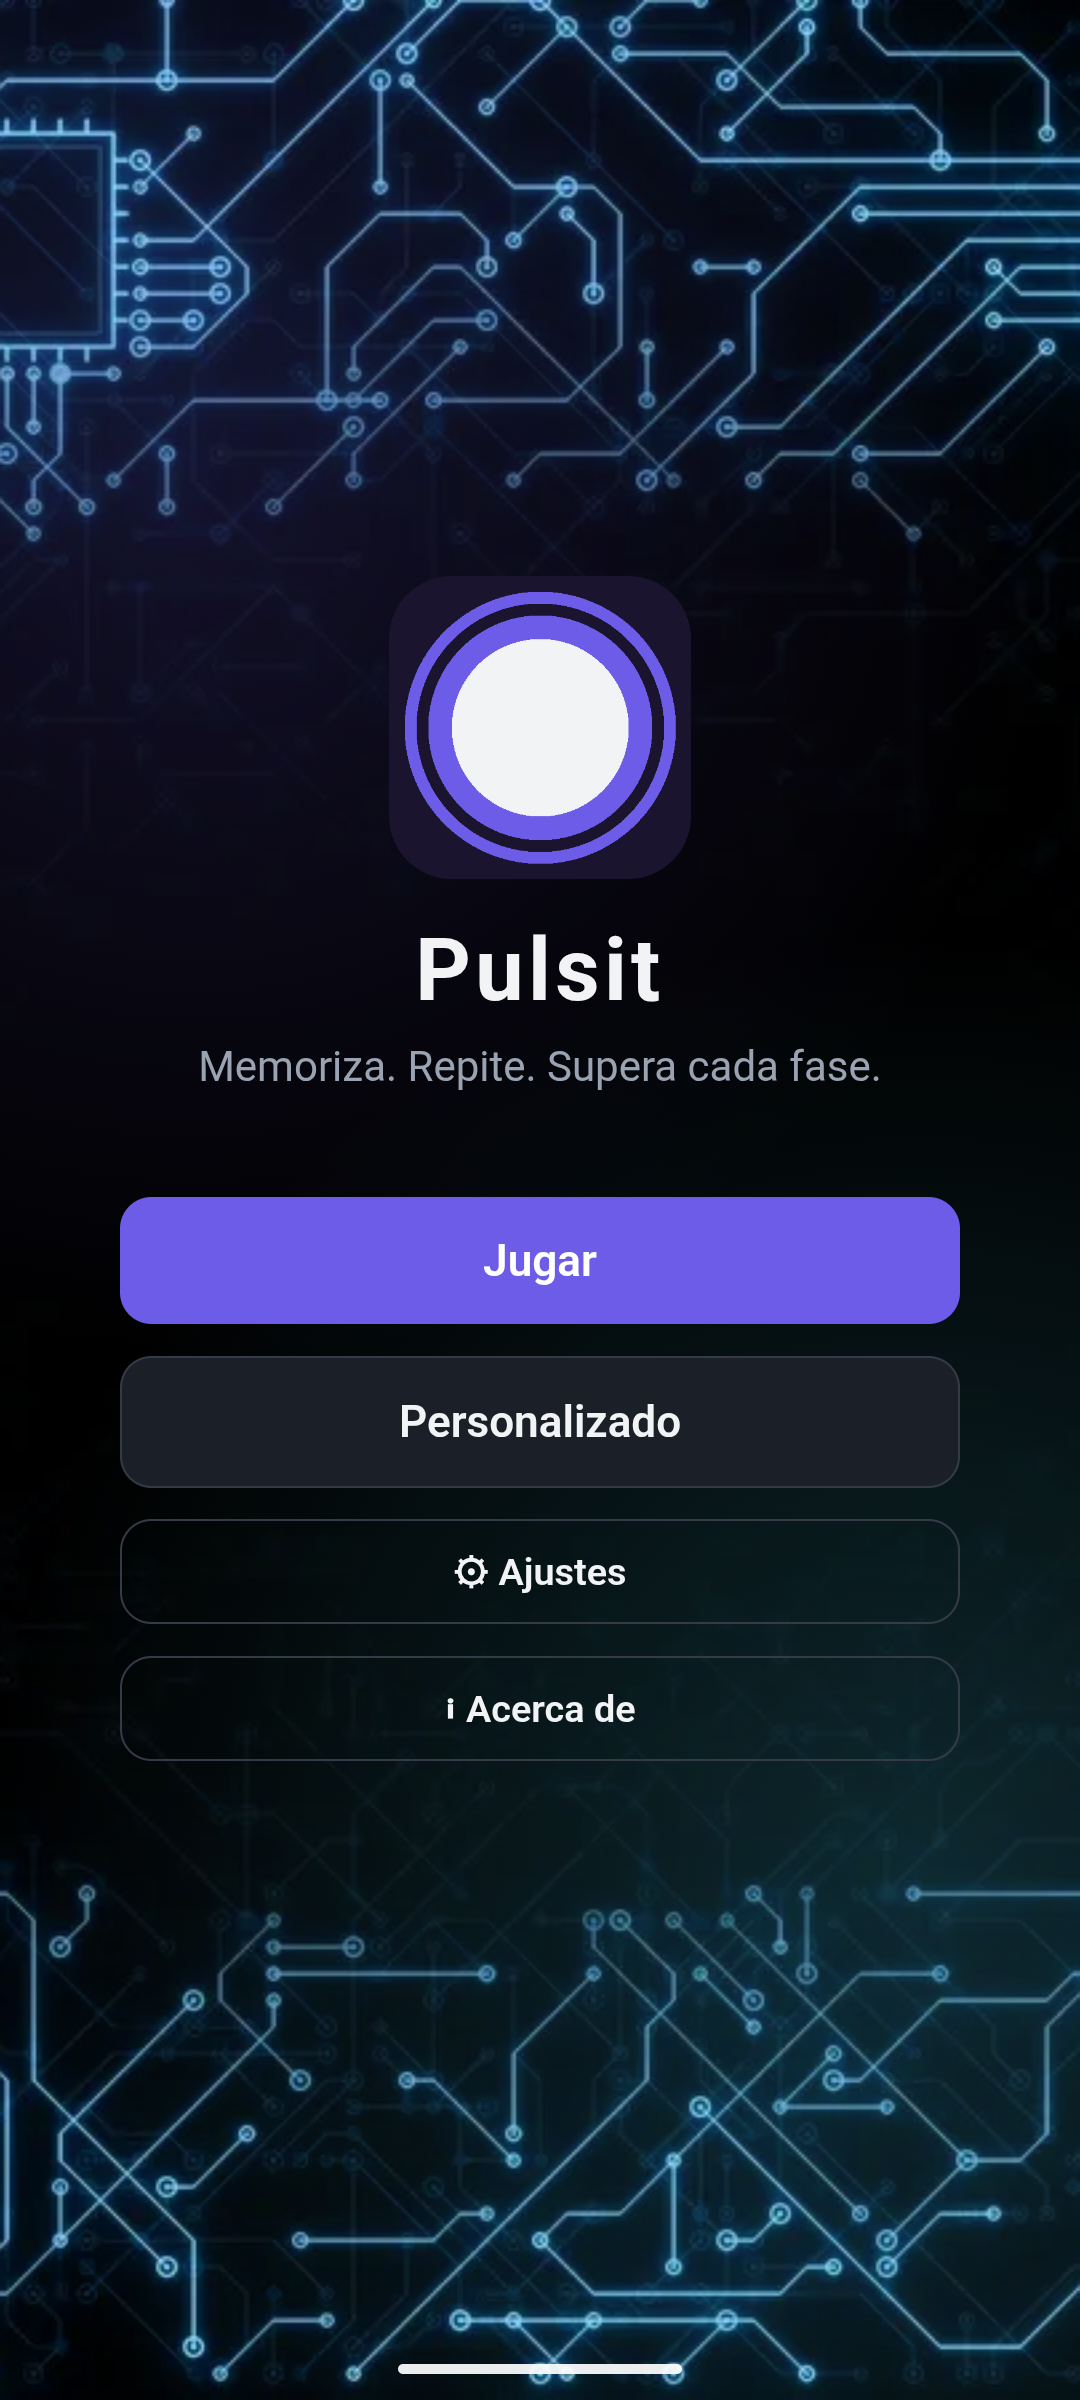
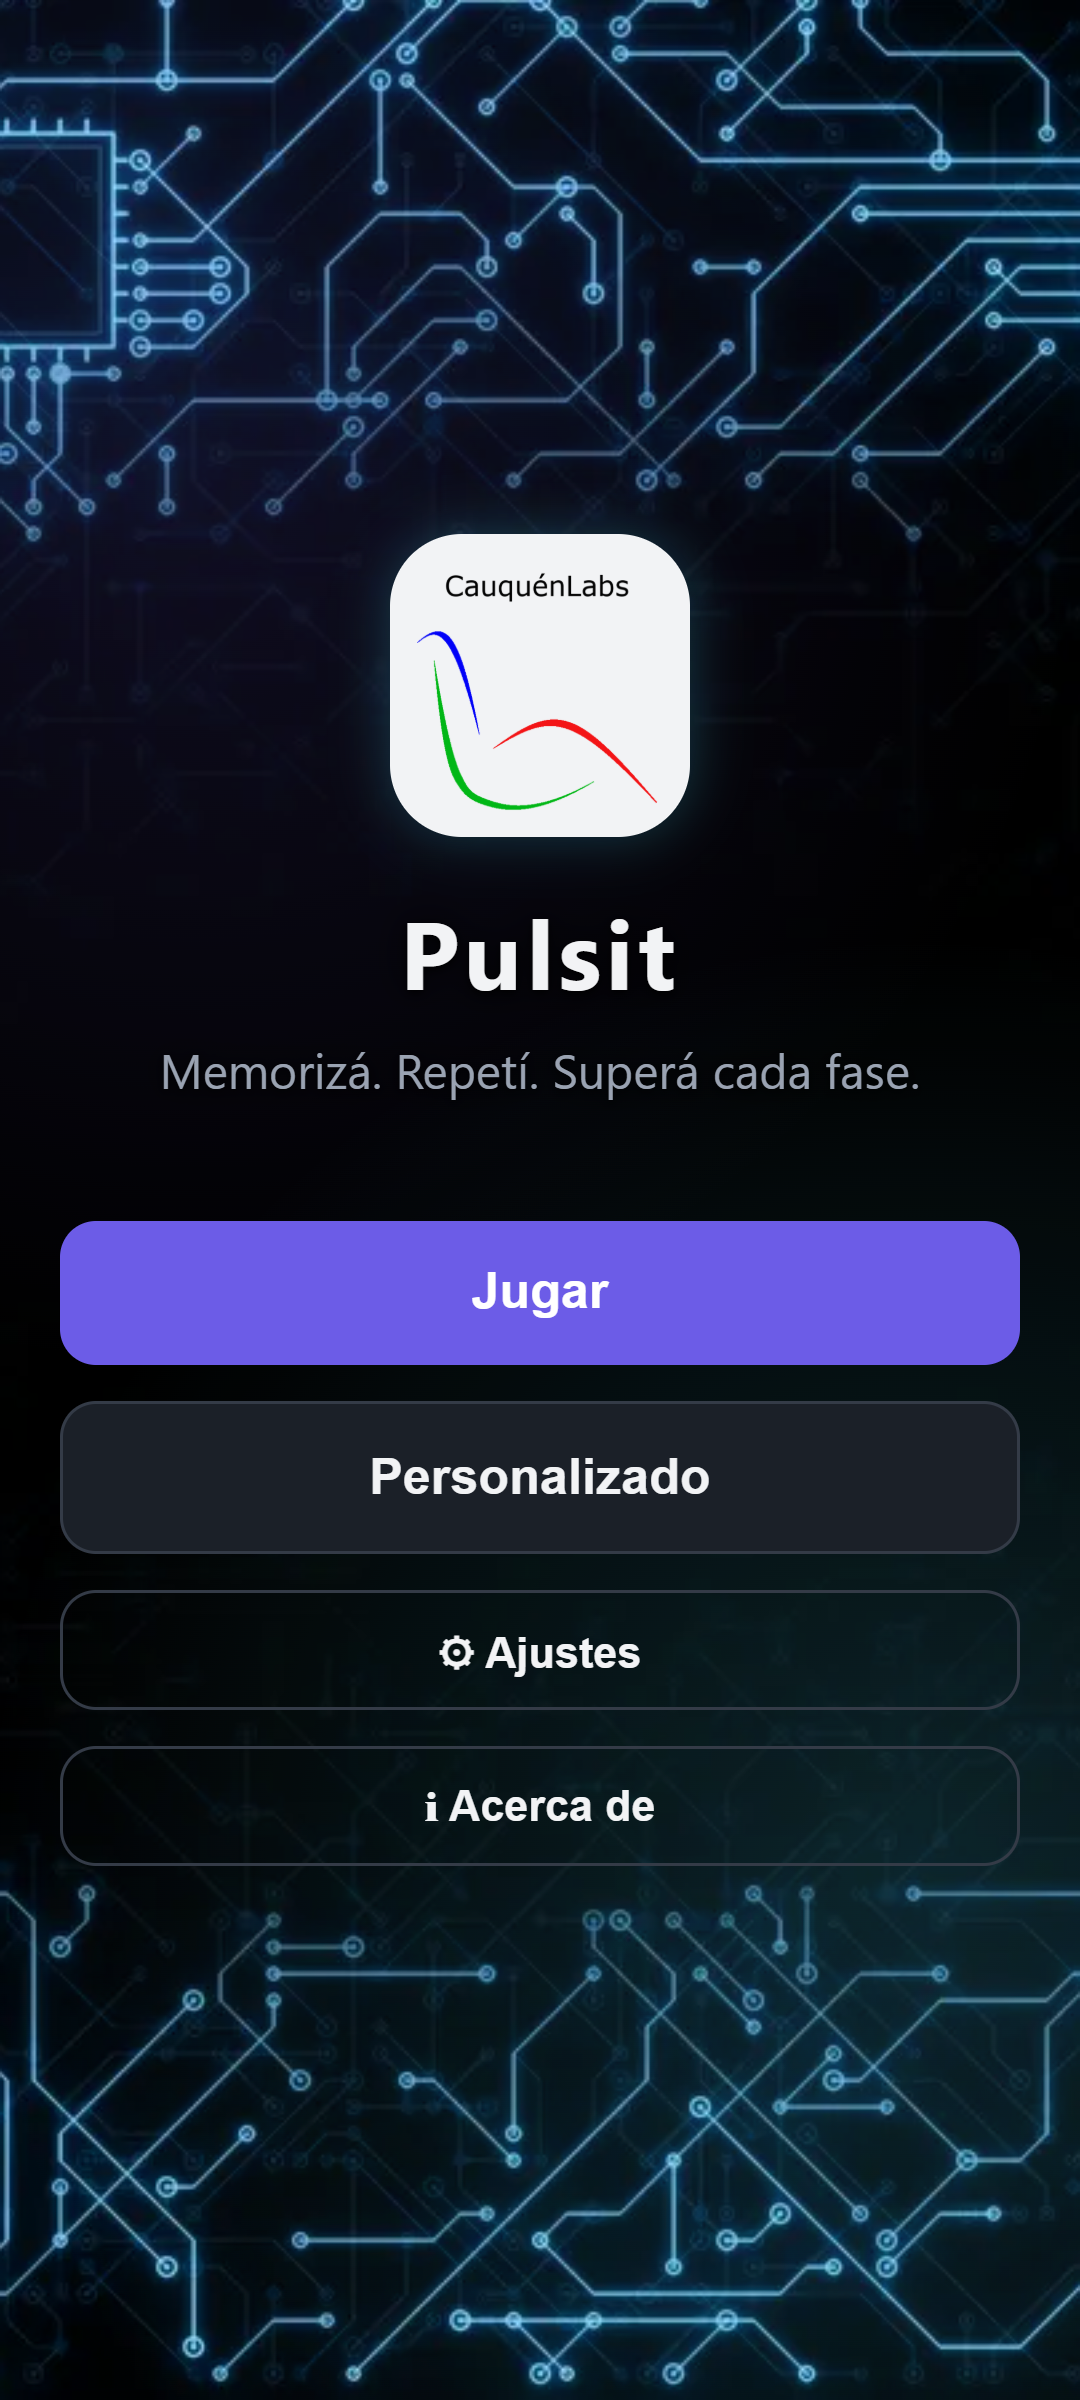
Prepara la versión 0.2.0: capturas nuevas de la tienda y formularios legibles
- Sube la versión a 0.2.0 (versionCode 2).
- Rehace las capturas de la ficha de Play Store con la versión actual y
  agrega el script que las genera (store-listing/capture-screenshots.cjs).
- Los formularios de Ajustes y Modo personalizado usan el mismo panel
  translúcido que la barra de estado, para leerse sobre el fondo.

Changed region(s): [[0.0306, 0.5, 0.9472, 0.7812], [0.1528, 0.2188, 0.8556, 0.4688], [0.3667, 0.9688, 0.6111, 1.0]]

diff --git a/www/css/styles.css b/www/css/styles.css
@@ -271,6 +271,13 @@ html, body {
 
 /* ---------- Modo personalizado ---------- */
 
+.screen-title,
+.title,
+.subtitle,
+.about-description {
+  text-shadow: 0 1px 3px rgba(0, 0, 0, 0.9), 0 0 12px rgba(0, 0, 0, 0.8);
+}
+
 .screen-title {
   margin-top: 0;
 }
@@ -281,6 +288,14 @@ html, body {
   gap: 1.1rem;
   width: 100%;
   max-width: 420px;
+  /* Mismo panel translúcido que la barra de estado del juego (ver .status-bar): las etiquetas
+     del formulario se perdían sobre las pistas del fondo de circuito. */
+  padding: 1rem;
+  border-radius: 16px;
+  border: 1px solid rgba(72, 219, 251, 0.18);
+  background: rgba(5, 8, 16, 0.82);
+  -webkit-backdrop-filter: blur(6px);
+  backdrop-filter: blur(6px);
 }
 
 .field {
@@ -288,7 +303,7 @@ html, body {
   flex-direction: column;
   gap: 0.35rem;
   font-size: 0.95rem;
-  color: var(--color-muted);
+  color: #c9d1dc;
 }
 
 .field input[type='number'],

diff --git a/.project-corpus/state/STATUS.md b/.project-corpus/state/STATUS.md
@@ -1,7 +1,7 @@
 # STATUS — estado verificado de Pulsit
 
-Última actualización: 2026-10-22 (sesión 4: campaña de 28 fases, barra de estado legible, logo
-definitivo de CauquenLabs, material de la ficha de Play Store en `store-listing/`)
+Última actualización: 2026-10-22 (sesión 4: 28 fases, legibilidad, logo definitivo, voseo, capturas
+nuevas y build 0.2.0 / versionCode 2 firmado, listo para subir a Play Console)
 
 ## ✅ Continuidad: qué pasa si se reinicia el equipo
 
@@ -12,8 +12,7 @@ Todo el trabajo está commiteado (`git log --oneline -3`). Nada depende de un pr
   Sin ambos no se puede volver a firmar un `.aab` compatible — el usuario debe tener un backup.
 - Archivos sin commitear a propósito en la raíz: `pcb_wallpaper_4k.png` (original del fondo, ya
   procesado a `www/assets/background-circuit.webp`), `Pulsit-debug.apk` y `Pulsit-release.aab`
-  (gitignorados, regenerables). **Ambos builds son ANTERIORES a esta sesión**: no incluyen las 28
-  fases, el logo definitivo ni la barra de estado legible; hay que regenerarlos.
+  (gitignorados, regenerables). Ambos builds son la versión **0.2.0 (versionCode 2)**, con todos los cambios de la sesión 4.
 - `sharp` y `puppeteer-core` no son dependencias del proyecto: `sharp` se instala con
   `npm install --no-save sharp` solo para regenerar el ícono o el feature graphic.
 
@@ -134,16 +133,20 @@ size` antes de tapear, no asumir que la imagen mostrada está 1:1.
    rechazaría) y con el lema "Memorizá. Repetí. Superá cada fase.".
 5. Textos de la app unificados en **voseo** a pedido del usuario (inicio: "Memorizá. Repetí. Superá
 cada fase."; juego: "Observá la secuencia..."). Convención agregada a `AGENTS.md`.
-6. `npm test` → 98/98; `npx cap sync` OK.
+6. Paneles translúcidos también en los formularios de Ajustes y Modo personalizado.
+7. Capturas de la tienda rehechas (1080×2400, Chrome headless, script
+   `store-listing/capture-screenshots.cjs`).
+8. Versión subida a **0.2.0 / versionCode 2**; `Pulsit-debug.apk` y `Pulsit-release.aab`
+   regenerados, `.aab` verificado con `jarsigner` y `aapt2 dump badging`. Tag `v0.2.0`.
+9. `npm test` → 98/98; `npx cap sync` OK.
 
 ## Siguiente acción exacta
 
-1. **Rehacer las capturas** de `store-listing/screenshots/`: son de antes de esta sesión (muestran
-   "Fase 1 / 10", el logo viejo y la barra sin panel).
-2. Regenerar `Pulsit-debug.apk` y `Pulsit-release.aab` (`./gradlew assembleDebug bundleRelease`,
-   ver "Detalle técnico") y probar el APK en el teléfono físico del usuario.
-3. Recordarle al usuario que respalde el keystore y la contraseña fuera de esta máquina.
-4. Crear la app en Play Console, subir el `.aab` nuevo como prueba interna, aceptar Play App
-   Signing, cargar la ficha (feature graphic + capturas + URL de la política de privacidad en
-   GitHub Pages, `docs/privacy-policy.html`).
-5. Etiquetar `v0.2.0` tras la primera subida a Play Console.
+1. **Lo hace el usuario (el agente no tiene acceso a Play Console)**: crear la app en Play Console,
+   subir `Pulsit-release.aab` a prueba interna, aceptar Play App Signing y cargar la ficha
+   (`store-listing/feature-graphic.png`, `store-listing/screenshots/`, URL de la política de
+   privacidad en GitHub Pages).
+2. Hacer push de `master` y del tag `v0.2.0` a `origin` si el usuario lo confirma.
+3. Probar `Pulsit-debug.apk` en el teléfono físico del usuario.
+4. Recordarle al usuario que respalde el keystore y la contraseña fuera de esta máquina.
+5. Para la próxima subida: incrementar `versionCode` en `android/app/build.gradle`.

diff --git a/PROJECT.md b/PROJECT.md
@@ -114,10 +114,8 @@
 
 - **Subir el primer `.aab` a Play Console**: el `.aab` firmado ya se genera correctamente (ver
   "Funciona" y README.md, "Publicar en Google Play Store"); falta crear la app en Play Console,
-  subir `Pulsit-release.aab` como build interno de prueba y aceptar Play App Signing.
-- **Capturas de la ficha de Play Store desactualizadas**: `store-listing/screenshots/` se tomaron
-  antes de la campaña de 28 fases, del logo definitivo y del panel legible de la barra de estado
-  (muestran "Fase 1 / 10"). Conviene rehacerlas antes de publicar la ficha.
+  subir `Pulsit-release.aab` (versión 0.2.0, versionCode 2) como build interno de prueba y aceptar
+  Play App Signing. La ficha ya tiene su material listo en `store-listing/`.
 - **Pruebas en dispositivo físico**: todo lo verificado hasta ahora es en emuladores (teléfono y
   tablet); falta instalar `Pulsit-debug.apk` en un teléfono real (especialmente para confirmar por
   tacto el feedback háptico, que no se puede verificar desde el emulador/automatización).
@@ -283,10 +281,7 @@
 2. Instalar `Pulsit-debug.apk` (raíz del repo) en un teléfono físico vía USB/`adb install` o
    transfiriendo el archivo, y confirmar: feedback háptico real, audio, persistencia, y que todo
    el rediseño visual se vea bien fuera del emulador.
-3. Crear la app en Play Console, subir `Pulsit-release.aab` (raíz del repo, ya firmado) como build
-   interno de prueba, y aceptar Play App Signing en el proceso.
-4. Rehacer las capturas de `store-listing/screenshots/` con la versión actual (28 fases, logo
-   definitivo, barra de estado legible) y subirlas a la ficha junto con
-   `store-listing/feature-graphic.png`.
-5. Etiquetar la siguiente versión (`git tag v0.2.0`) una vez subido el primer build de prueba a
-   Play Console.
+3. Crear la app en Play Console, subir `Pulsit-release.aab` (raíz del repo, 0.2.0 / versionCode 2,
+   ya firmado) como build interno de prueba, aceptar Play App Signing, y cargar la ficha con
+   `store-listing/feature-graphic.png` y `store-listing/screenshots/`.
+4. Cada nueva subida a Play Console necesita un `versionCode` mayor en `android/app/build.gradle`.

diff --git a/documentacion/04-pantallas-y-flujo.md b/documentacion/04-pantallas-y-flujo.md
@@ -104,7 +104,8 @@ Contenido:
   un estilo de neón/glow. No se muestra en modo personalizado (no hay un "número de fase").
 - Barra de estado: fase actual (o "Modo personalizado"). Número de fase, textos y barra de progreso
   van sobre un panel oscuro translúcido para que se lean sobre la foto de circuito del fondo (lo
-  mismo el botón "Reiniciar nivel").
+  mismo el botón "Reiniciar nivel"). Los formularios de Ajustes y Modo personalizado usan el
+  mismo panel.
 - **Barra de progreso**: indica visualmente cuánto falta de la secuencia actual para superar la
   fase/partida (`sequenceLength / maxSequenceLength`), además del texto `Secuencia: X / N`.
 - Botón **"Menú"**: abandona la partida en curso y vuelve a la pantalla de inicio.

diff --git a/README.md b/README.md
@@ -180,6 +180,8 @@ el archivo manteniendo el nombre y correr `npx cap sync`.
 - `feature-graphic.png`: gráfico destacado de 1024×500 px, PNG de 24 bits sin alfa (como exige
   Play Console). Se regenera con `node store-listing/gen-feature-graphic.mjs` (requiere `sharp`:
   `npm install --no-save sharp`).
-- `screenshots/`: capturas de teléfono 1080×2400 para la ficha.
+- `screenshots/`: capturas de teléfono 1080×2400 para la ficha. Se regeneran con
+  `node store-listing/capture-screenshots.cjs` (Chrome headless sobre `npm run dev`; requiere
+  `npm install --no-save puppeteer-core`).
 
 Vive fuera de `www/` a propósito: todo lo que está en `www/` se copia al APK en cada `cap sync`.
